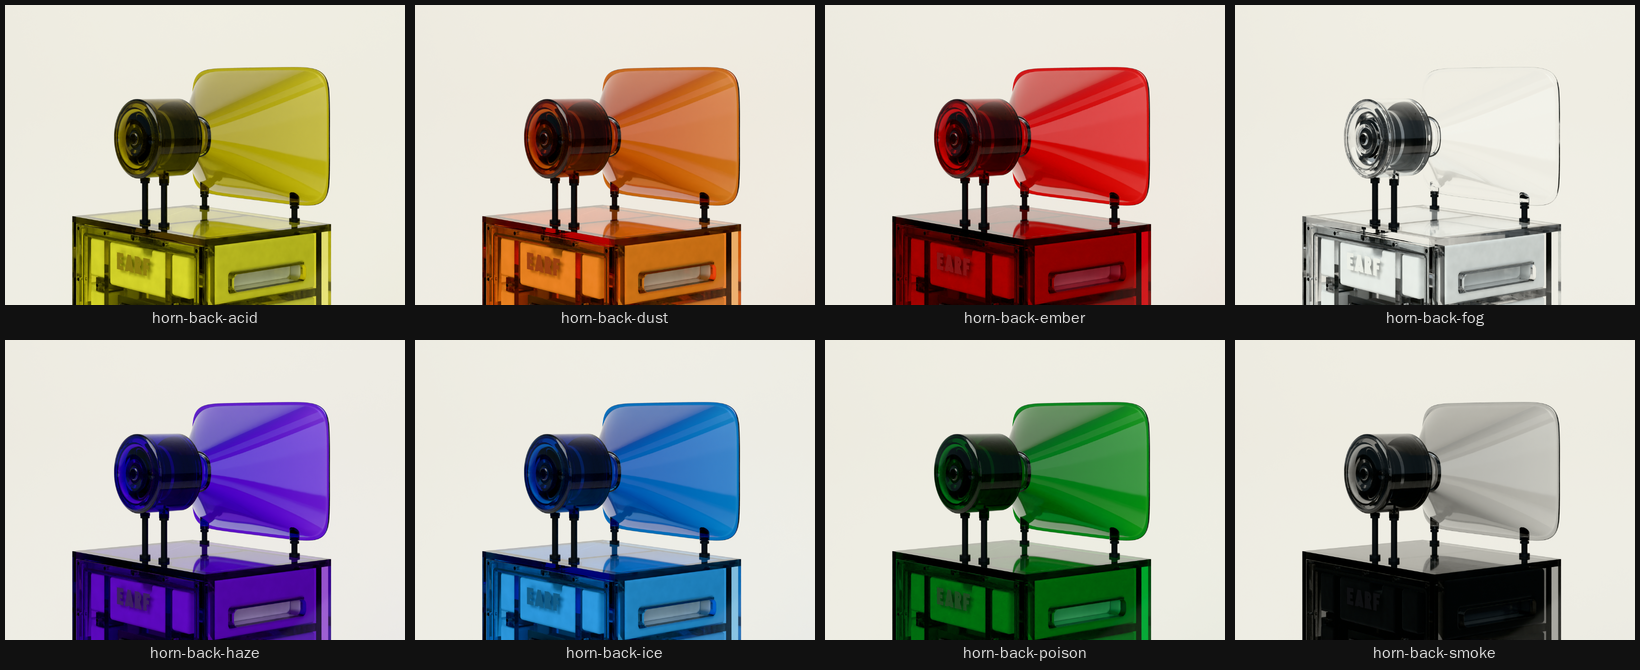
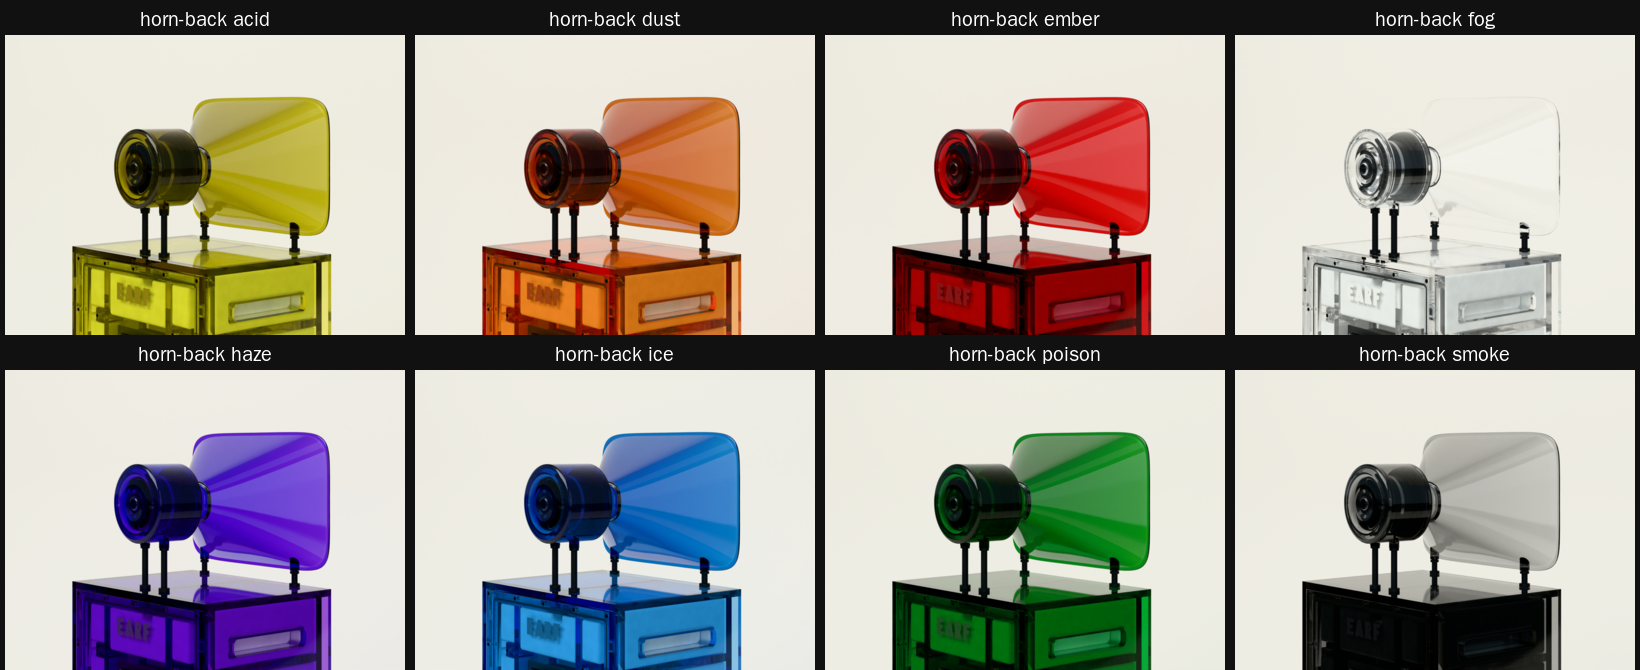
light C: sheet-horn-backs.png and audit.md's horn-back column from the horn-backD frames (path depth 32/16/32)
Claude-Session: https://claude.ai/code/session_01CsZ9sPVytkpnrfV4BgTgfB

diff --git a/renders/2026-11-24/barkhorn/light-c2/audit.md b/renders/2026-11-24/barkhorn/light-c2/audit.md
@@ -4,15 +4,15 @@ All 216 in light-c2/: front-<tint> x8 (this lane), and per tint 24 turn frames, 
 
 Against the FA123 frames they replace (mean L*, whole frame; no pixel clipped in either):
 
-| tint | amp FA123 | amp light C | horn-back FA123 | horn-back light C |
+| tint | amp FA123 | amp light C | horn-back FA123 | horn-back light C (depth 32/16/32) |
 |---|---|---|---|---|
-| acid | 52.6 | 71.4 | 75.7 | 77.8 |
-| dust | 42.6 | 58.7 | 72.1 | 73.7 |
-| ember | 28.2 | 42.8 | 67.8 | 68.8 |
-| fog | 60.8 | 77.0 | 83.2 | 85.7 |
-| haze | 27.5 | 41.4 | 66.0 | 67.0 |
-| ice | 39.1 | 56.2 | 70.0 | 71.7 |
-| poison | 29.0 | 46.2 | 68.3 | 69.6 |
-| smoke | 27.1 | 37.6 | 70.0 | 70.1 |
+| acid | 52.6 | 71.4 | 75.7 | 78.4 |
+| dust | 42.6 | 58.7 | 72.1 | 74.3 |
+| ember | 28.2 | 42.8 | 67.8 | 69.0 |
+| fog | 60.8 | 77.0 | 83.2 | 87.7 |
+| haze | 27.5 | 41.4 | 66.0 | 67.2 |
+| ice | 39.1 | 56.2 | 70.0 | 72.1 |
+| poison | 29.0 | 46.2 | 68.3 | 69.7 |
+| smoke | 27.1 | 37.6 | 70.0 | 70.2 |
 
-The amp plates come out 10-19 L* brighter: light C's caustics through the clear walls light the cabinet's inside round the plate; the plate itself reads. The horn-backs move 1-2.5.
+The amp plates come out 10-19 L* brighter: light C's caustics through the clear walls light the cabinet's inside round the plate; the plate itself reads. The horn-backs move 1-4.5; the light C horn-backs are now horn-backD-<tint> (path depth 32/16/32, 25 Nov: the 20 mm edges, the frames and the grip open up; horn-backD-readings.md), and sheet-horn-backs.png shows them.
